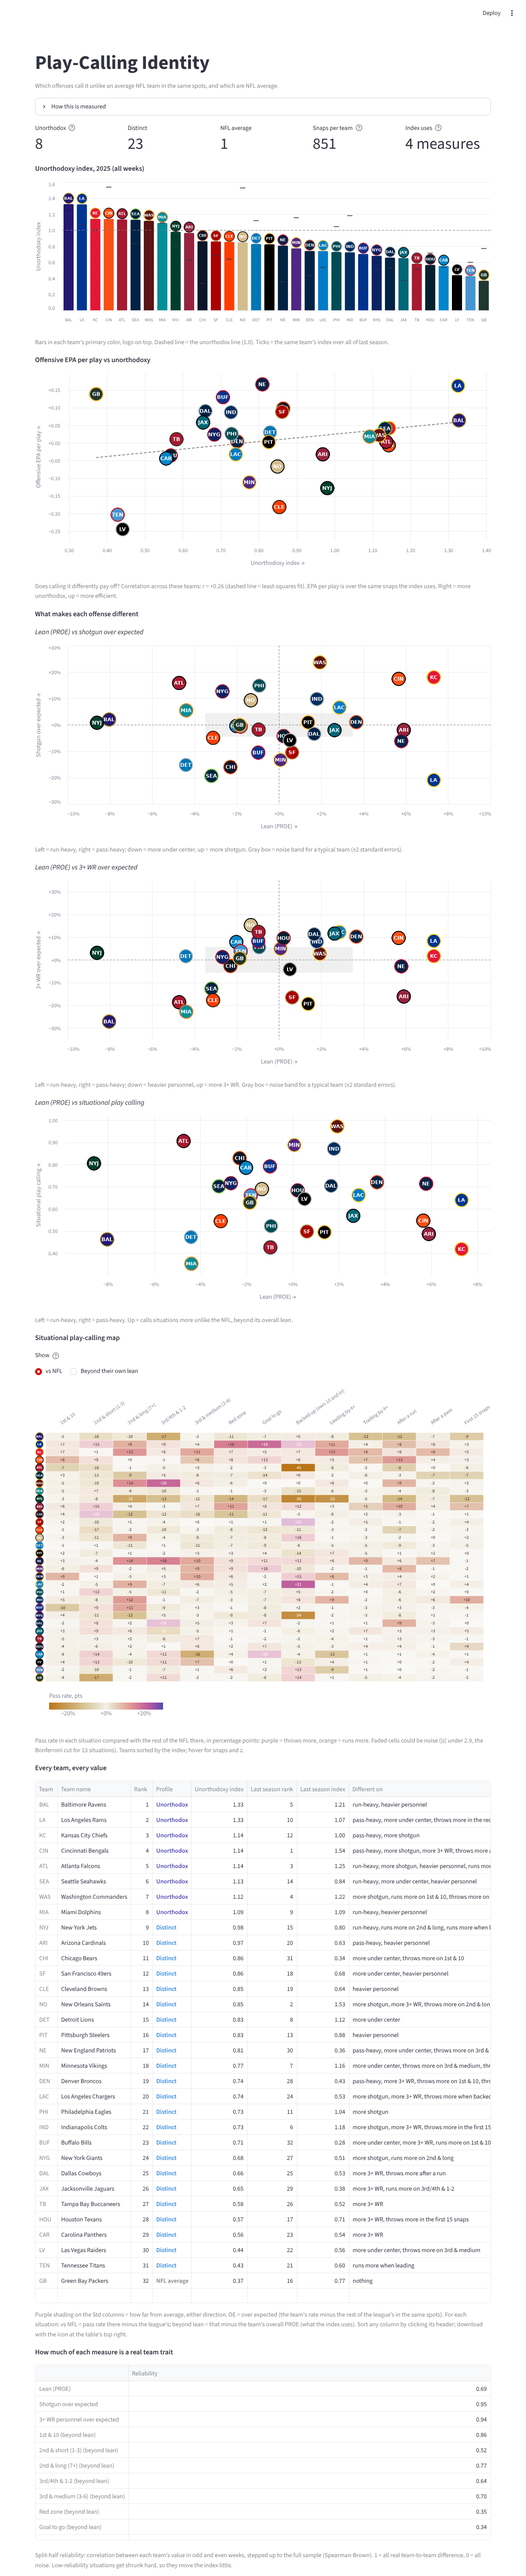
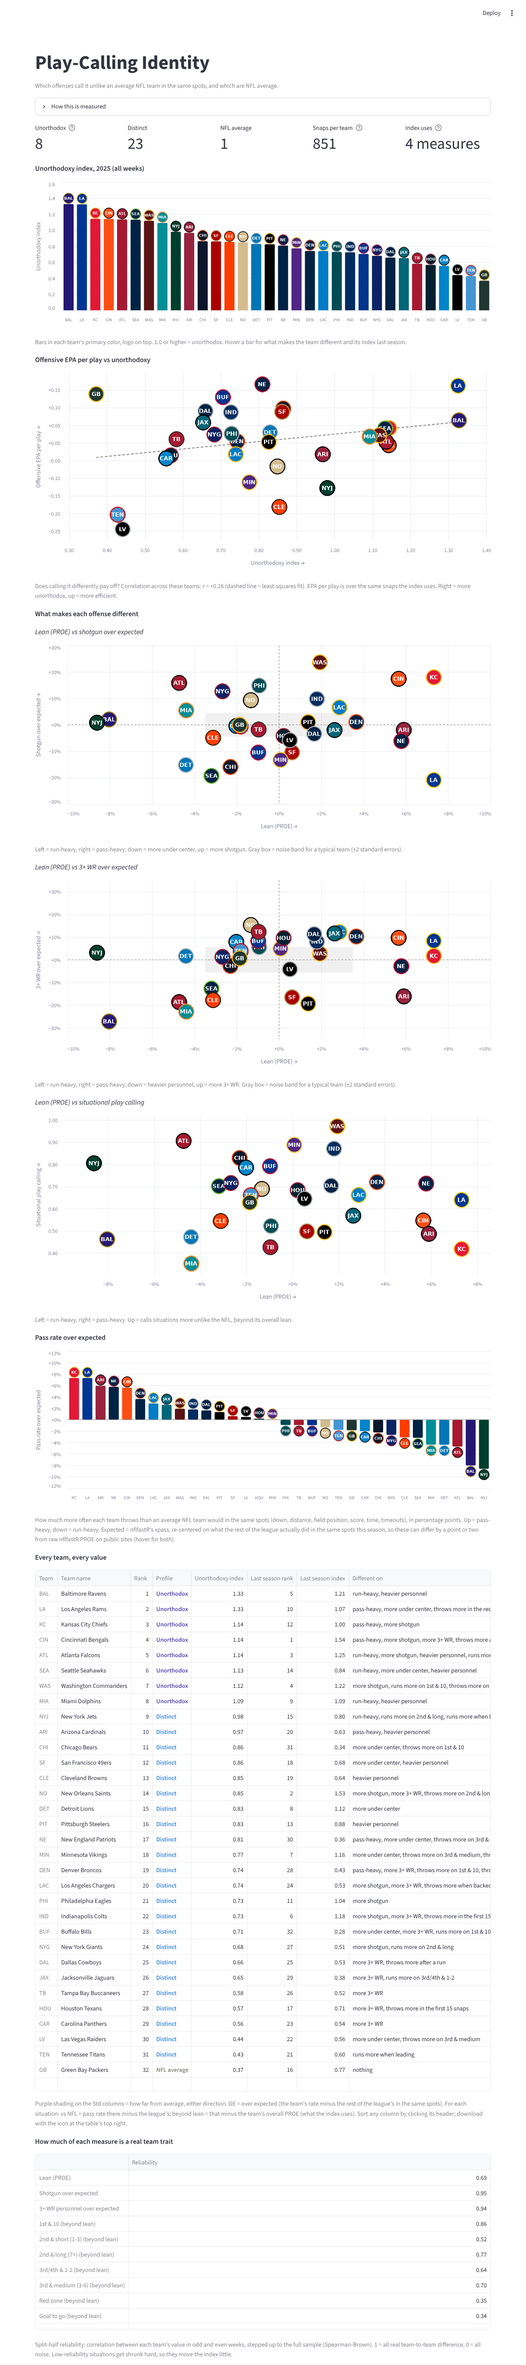
Identity page: simpler charts, PROE bars, no z columns, how to read the index
- Index chart: drop the unorthodox dashed line and last season's ticks (last
  season stays in the tooltip and the table).
- Scatters: logos only. A team whose logo couldn't be downloaded keeps a
  colored dot so it never disappears.
- Replace the situational play-calling map with pass rate over expected per
  team: bars in team colors, logo at the end of each bar (raw nflfastR PROE
  in the tooltip for comparison with public sites).
- Table: drop the z-score columns.
- Add 'How to read the index' to the page and README: the unit, no
  direction or grade, the practical floor (~0.3-0.4), and the 2021-25
  league distribution.

Claude-Session: https://claude.ai/code/session_01Aqe4Ce9chTpUW4ZyLj4MPT

diff --git a/page_identity.py b/page_identity.py
@@ -66,7 +66,7 @@ def team_frame(t: pd.DataFrame, info: pd.DataFrame, highlight: list[str]) -> pd.
 
 # ---- Charts --------------------------------------------------------------------------------------------------
 def index_chart(d: pd.DataFrame, prior: pd.DataFrame | None) -> alt.Chart:
-    """Bars in each team's primary color, the team's logo on top of its bar, last season's index as a tick."""
+    """Bars in each team's primary color with the team's logo on top. Last season's index is in the tooltip."""
     d = d.assign(**{"Last season": d["Team"].map(prior["Unorthodoxy index"]) if prior is not None else np.nan})
     order = list(d.sort_values("Unorthodoxy index", ascending=False)["Team"])
     top = float(d["Unorthodoxy index"].max() * 1.18)
@@ -79,20 +79,14 @@ def index_chart(d: pd.DataFrame, prior: pd.DataFrame | None) -> alt.Chart:
         y=y, color=alt.Color("color:N", scale=None), opacity=alt.Opacity("opacity:Q", scale=None))
     logos = base.mark_image(width=LOGO, height=LOGO, baseline="bottom").encode(
         y="Unorthodoxy index:Q", url="logo:N", opacity=alt.Opacity("opacity:Q", scale=None))
-    layers = [bars, logos,
-              alt.Chart(pd.DataFrame({"y": [idn.UNORTHODOX]})).mark_rule(strokeDash=[5, 4], color="#888780")
-              .encode(y="y:Q")]
-    if d["Last season"].notna().any():
-        layers.insert(1, base.mark_tick(color=cm.theme_ink(), thickness=2, size=12, opacity=0.8).encode(
-            y="Last season:Q"))
-    return alt.layer(*layers).properties(height=340)
+    return alt.layer(bars, logos).properties(height=340)
 
 
 def logo_scatter(d: pd.DataFrame, x: str, y: str, x_title: str, y_title: str, x_fmt: str, y_fmt: str,
                  tip_extra: list | None = None, box: tuple[float, float] | None = None, zero_lines: bool = True,
                  trend: bool = False, height: int = 460) -> alt.LayerChart:
-    """One team per point: a dot in the team's color under its logo. box = (half-width x, half-height y) of a
-    gray noise box around 0; trend = least-squares line."""
+    """One team per point, drawn as its logo (a dot in the team's color if the logo couldn't be downloaded).
+    box = (half-width x, half-height y) of a gray noise box around 0; trend = least-squares line."""
     d = d.dropna(subset=[x, y])
     pad_x = (d[x].max() - d[x].min()) * 0.08 or 0.01
     pad_y = (d[y].max() - d[y].min()) * 0.08 or 0.01
@@ -119,45 +113,34 @@ def logo_scatter(d: pd.DataFrame, x: str, y: str, x_title: str, y_title: str, x_
         layers.append(base.transform_regression(x, y).mark_line(color="#888780", strokeDash=[6, 4], strokeWidth=2)
                       .encode(tooltip=alt.value(None)))
     layers += [
-        base.mark_circle(size=900, stroke="white", strokeWidth=1).encode(
+        base.transform_filter("datum.logo == ''").mark_circle(size=500).encode(
             color=alt.Color("color:N", scale=None), opacity=alt.Opacity("opacity:Q", scale=None)),
-        base.mark_image(width=34, height=34).encode(url="logo:N", opacity=alt.Opacity("opacity:Q", scale=None)),
+        base.mark_image(width=38, height=38).encode(url="logo:N", opacity=alt.Opacity("opacity:Q", scale=None)),
     ]
     return alt.layer(*layers).properties(height=height)
 
 
-def heatmap(d: pd.DataFrame, situations: list[str], mode: str, z_cut: float) -> alt.Chart:
-    """Teams (rows, by index) × situations: how much more or less they throw there. Purple = more passing, orange
-    = more running. Cells that aren't detectable (|z| under the situational cut) are faded."""
-    rows = []
-    for _, r in d.iterrows():
-        for s in situations:
-            v, z = (r[f"{s}|vs_nfl"], r[f"{s}|z_nfl"]) if mode == "vs NFL" else (r[f"{s}|effect"], r[f"{s}|z"])
-            rows.append({"Team": r["Team"], "name": r["name"], "logo": r["logo"], "Situation": s, "value": v,
-                         "vs NFL": r[f"{s}|vs_nfl"], "beyond lean": r[f"{s}|effect"], "z": z,
-                         "snaps": r[f"{s}|n"], "sure": bool(pd.notna(z) and abs(z) >= z_cut)})
-    h = pd.DataFrame(rows)
-    order = list(d["Team"])
-    lim = 0.30
-    h["label"] = h["value"].map(lambda v: "" if pd.isna(v) else f"{int(round(v * 100)) + 0:+d}")
-    # The logos are the team labels (hover for the name).
-    y = alt.Y("Team:N", sort=order, title=None, axis=alt.Axis(labels=False, ticks=False, domain=False))
-    tip = [alt.Tooltip("name:N", title="Team"), "Situation", alt.Tooltip("vs NFL:Q", format="+.1%"),
-           alt.Tooltip("beyond lean:Q", format="+.1%", title="Beyond their lean"), alt.Tooltip("z:Q", format="+.1f"),
-           alt.Tooltip("snaps:Q", title="Snaps")]
-    base = alt.Chart(h).encode(x=alt.X("Situation:N", sort=situations, title=None,
-                                       axis=alt.Axis(orient="top", labelAngle=-35, labelLimit=180,
-                                                     labelOverlap=False)), y=y, tooltip=tip)
-    cells = base.mark_rect(stroke="white", strokeWidth=0.5).encode(
-        color=alt.Color("value:Q", title="Pass rate, pts", scale=alt.Scale(
-            domain=[-lim, 0, lim], range=[cm.RUN_C, "#F1EFE8", cm.PASS_C], clamp=True),
-            legend=alt.Legend(format="+.0%", orient="bottom", gradientLength=260)),
-        opacity=alt.condition("datum.sure", alt.value(1.0), alt.value(0.4)))
-    text = base.mark_text(fontSize=10).encode(text="label:N", color=alt.condition(
-        f"abs(datum.value) > {lim * 0.6}", alt.value("white"), alt.value("#2C2C2A")))
-    logos = alt.Chart(h.drop_duplicates("Team")).mark_image(width=20, height=20).encode(
-        y=y, url="logo:N", x=alt.value(-14), tooltip=[alt.Tooltip("name:N", title="Team")])
-    return alt.layer(cells, text, logos).properties(height=24 * len(order) + 10)
+def proe_chart(d: pd.DataFrame) -> alt.Chart:
+    """PROE per team: bars in the team's color, up = throws more than expected, down = runs more; the logo sits at
+    the end of each bar."""
+    d = d.assign(PROE=d["Pass rate"] - d["Expected pass rate"])
+    order = list(d.sort_values("PROE", ascending=False)["Team"])
+    lim = float(d["PROE"].abs().max() * 1.3) or 0.05
+    tip = [alt.Tooltip("name:N", title="Team"), alt.Tooltip("PROE:Q", format="+.1%"),
+           alt.Tooltip("Pass rate:Q", format=".1%"), alt.Tooltip("Expected pass rate:Q", format=".1%"),
+           alt.Tooltip("nflfastR PROE:Q", format="+.1%", title="nflfastR's raw PROE"), "Snaps"]
+    x = alt.X("Team:N", sort=order, title=None, axis=alt.Axis(labelAngle=0, labelFontSize=10, orient="bottom"))
+    y = alt.Y("PROE:Q", title="Pass rate over expected", scale=alt.Scale(domain=[-lim, lim]),
+              axis=alt.Axis(format="+.0%"))
+    base = alt.Chart(d).encode(x=x, tooltip=tip)
+    bars = base.mark_bar(cornerRadius=3).encode(
+        y=y, color=alt.Color("color:N", scale=None), opacity=alt.Opacity("opacity:Q", scale=None))
+    up = base.transform_filter("datum.PROE >= 0").mark_image(width=LOGO, height=LOGO, baseline="bottom").encode(
+        y="PROE:Q", url="logo:N", opacity=alt.Opacity("opacity:Q", scale=None))
+    down = base.transform_filter("datum.PROE < 0").mark_image(width=LOGO, height=LOGO, baseline="top").encode(
+        y="PROE:Q", url="logo:N", opacity=alt.Opacity("opacity:Q", scale=None))
+    zero = alt.Chart(pd.DataFrame({"v": [0]})).mark_rule(color="#888780").encode(y="v:Q")
+    return alt.layer(bars, zero, up, down).properties(height=360)
 
 
 # ---- Table ----------------------------------------------------------------------------------------------------
@@ -179,14 +162,14 @@ def display_table(t: pd.DataFrame, prior: pd.DataFrame | None, info: pd.DataFram
     out["Pass rate"], out["Expected pass rate"] = t["Pass rate"], t["Expected pass rate"]
     measures = t.attrs["measures"]
     if "lean" in measures:
-        out["PROE"], out["PROE z"], out["PROE std"] = t["lean_effect"], t["lean_z"], t["lean_std"]
+        out["PROE"], out["PROE std"] = t["lean_effect"], t["lean_std"]
     out["Shotgun rate"], out["Expected shotgun rate"] = t["Shotgun rate"], t["Expected shotgun rate"]
     if "shotgun" in measures:
-        out["Shotgun OE"], out["Shotgun z"], out["Shotgun std"] = t["shotgun_effect"], t["shotgun_z"], t["shotgun_std"]
+        out["Shotgun OE"], out["Shotgun std"] = t["shotgun_effect"], t["shotgun_std"]
     if "3+ WR rate" in t:
         out["3+ WR rate"], out["Expected 3+ WR rate"] = t["3+ WR rate"], t["Expected 3+ WR rate"]
         if "spread" in measures:
-            out["3+ WR OE"], out["3+ WR z"], out["3+ WR std"] = t["spread_effect"], t["spread_z"], t["spread_std"]
+            out["3+ WR OE"], out["3+ WR std"] = t["spread_effect"], t["spread_std"]
         for name in ("2+ TE", "2+ RB"):
             out[f"{name} rate"], out[f"{name} OE"] = t[f"{name} rate"], t[f"{name} over expected"]
         out["Personnel mix distance"], out["Top personnel"] = t["Personnel mix distance"], t["Top personnel"]
@@ -195,11 +178,9 @@ def display_table(t: pd.DataFrame, prior: pd.DataFrame | None, info: pd.DataFram
         for s in t.attrs["situations"]:
             out[f"{s}: vs NFL"] = t[f"{s}|vs_nfl"]
             out[f"{s}: beyond lean"] = t[f"{s}|effect"]
-            out[f"{s}: z"] = t[f"{s}|z"]
     out.index.name = "Team"
     fmt = {c: "{:.1%}" for c in out.columns if "rate" in c.lower() or c == "Personnel mix distance"}
     fmt.update({c: "{:+.1%}" for c in out.columns if c.endswith((" OE", ": vs NFL", ": beyond lean")) or c == "PROE"})
-    fmt.update({c: "{:+.1f}" for c in out.columns if c.endswith((" z", ": z"))})
     fmt.update({c: "{:+.2f}" for c in out.columns if c.endswith(" std") and c != "Situational std"})
     fmt.update({"Unorthodoxy index": "{:.2f}", "Last season index": "{:.2f}", "Situational std": "{:.2f}",
                 "Snaps": "{:,.0f}", "Games": "{:.0f}", "EPA/play": "{:+.3f}", "Success rate": "{:.1%}"})
@@ -261,7 +242,23 @@ For each measure: **z** = standard errors from average, clustered by game (a gam
 league by how noisy it is (empirical Bayes), in units of the real team-to-team spread; noisy situations shrink
 toward 0, so they barely move the index.
 
-**Unorthodoxy index** = root mean square of the Std values. **Profiles:** *Unorthodox* = index ≥
+**Unorthodoxy index** = root mean square of the Std values.
+
+**How to read the index**
+- **The unit is "a typical team-to-team gap."** 1.0 means that, across the measures, the offense sits about one
+  typical gap between NFL offenses away from what an average team would do in the same spots. 2025 Baltimore (1.33):
+  lean −1.51 (run-heavy), shotgun +0.17, personnel −2.13 (heavy), situational 0.46; squared, averaged, and square-rooted,
+  that's 1.33.
+- **It has no direction and no grade.** Pass-heavy and run-heavy both count as unusual, and unusual isn't good or
+  bad. Use the bars, scatters, and table to see *which way* a team is different, and the EPA chart for whether it works.
+- **It never reaches 0 in practice.** The squares can't cancel and some noise survives the shrinkage, so even the most
+  average offenses land around 0.3-0.4. Read it against the league: across 2021-25 the median team is about 0.77, the
+  top quarter 1.07+, the top 10% 1.3+, and the most extreme 1.84 (2024 New Orleans).
+- **It's relative to that season.** Each measure is scaled by that season's real spread between teams, so compare
+  ranks across seasons rather than raw values, and expect the season in progress (fewer games, no personnel yet) to
+  run a little differently.
+
+**Profiles:** *Unorthodox* = index ≥
 {idn.UNORTHODOX:.1f}; *NFL average* = not detectably *and* materially (|Std| ≥ {idn.MATERIAL}) different on anything;
 *Distinct* = in between. Early in a season many teams read as NFL average simply because there isn't enough data yet.
 """
@@ -350,8 +347,8 @@ c[4].metric("Index uses", f"{len(measures)} measures", help=", ".join(LABELS[m] 
 
 st.markdown(f"**Unorthodoxy index, {season} ({week_txt})**")
 st.altair_chart(index_chart(d, prior), width="stretch")
-st.caption(f"Bars in each team's primary color, logo on top. Dashed line = the unorthodox line ({idn.UNORTHODOX:.1f})."
-           + (" Ticks = the same team's index over all of last season." if prior is not None else ""))
+st.caption(f"Bars in each team's primary color, logo on top. {idn.UNORTHODOX:.1f} or higher = unorthodox. Hover a bar "
+           f"for what makes the team different" + (" and its index last season." if prior is not None else "."))
 
 st.markdown("**Offensive EPA per play vs unorthodoxy**")
 r = d["Unorthodoxy index"].corr(d["EPA/play"])
@@ -386,16 +383,12 @@ if pairs:
         st.altair_chart(chart, width="stretch")
         st.caption(note)
 
-if idn.SITUATIONAL in measures:
-    st.markdown("**Situational play-calling map**")
-    mode = st.radio("Show", ["vs NFL", "Beyond their own lean"], horizontal=True, key="id_heat",
-                    help="vs NFL = how much more they throw there than the league does. Beyond their own lean = the "
-                         "same, minus their overall PROE: what the situational measure uses.")
-    z_cut = idn.z_situation(len(t.attrs["situations"]))
-    st.altair_chart(heatmap(d, t.attrs["situations"], mode, z_cut), width="stretch")
-    st.caption(f"Pass rate in each situation compared with the rest of the NFL there, in percentage points: purple = "
-               f"throws more, orange = runs more. Faded cells could be noise (|z| under {z_cut:.1f}, the Bonferroni cut "
-               f"for {len(t.attrs['situations'])} situations). Teams sorted by the index; hover for snaps and z.")
+st.markdown("**Pass rate over expected**")
+st.altair_chart(proe_chart(d), width="stretch")
+st.caption("How much more often each team throws than an average NFL team would in the same spots (down, distance, "
+           "field position, score, time, timeouts), in percentage points. Up = pass-heavy, down = run-heavy. Expected "
+           "= nflfastR's xpass, re-centered on what the rest of the league actually did in the same spots this season, "
+           "so these can differ by a point or two from raw nflfastR PROE on public sites (hover for both).")
 
 st.markdown("**Every team, every value**")
 table, fmt = display_table(t.loc[d["Team"]], prior, info)

diff --git a/identity.py b/identity.py
@@ -209,7 +209,7 @@ def season_table(plays: pd.DataFrame, season: int, settings: Settings = Settings
         lean_all = g["pass_resid"].mean()
         r = {"Snaps": len(g), "Games": g["game_id"].nunique(), "EPA/play": g["epa"].mean(),
              "Success rate": g["success"].mean(), "Pass rate": g["PASS"].mean(),
-             "Expected pass rate": g["exp_pass"].mean()}
+             "Expected pass rate": g["exp_pass"].mean(), "nflfastR PROE": g["pass_oe"].mean() / 100}
         for k in keys:
             label, val, exp = MEASURES[k]
             r[f"{k}_effect"], r[f"{k}_z"], r[f"{k}_se"], _ = _measure(g, val, exp)

diff --git a/README.md b/README.md
@@ -48,10 +48,14 @@ z to be flagged). The **unorthodoxy index** is the root mean square of those: 0 
 1 = one typical team-to-team spread away on each measure. *Unorthodox* = index ≥ 1.0; *NFL average* = not detectably
 and materially different on any measure; *Distinct* = in between.
 
-**On the page:** the index as bars in each team's primary color with its logo on top (and last season's index as a
-tick); offensive EPA per play vs the index; lean vs shotgun, lean vs personnel, and lean vs situational play calling;
-a situational play-calling map (team × situation, vs the NFL or beyond the team's own lean); a table of every value;
-and split-half reliabilities. Every chart uses team colors and logos. Logos are downloaded once from ESPN's CDN,
+**Reading the index:** the unit is a typical team-to-team gap, so 1.0 = about one typical gap from average across the
+measures. It has no direction (pass-heavy and run-heavy both count) and no grade (unusual isn't good or bad). Even the
+most average offenses land around 0.3-0.4, since squares can't cancel and some noise survives the shrinkage; across
+2021-25 the median team is about 0.77, the top quarter 1.07+, and the top 10% 1.3+.
+
+**On the page:** the index as bars in each team's primary color with its logo on top; offensive EPA per play vs the
+index; lean vs shotgun, lean vs personnel, and lean vs situational play calling (logos only); pass rate over expected
+per team as bars in team colors with logos; a table of every value; and split-half reliabilities. Every chart uses team colors and logos. Logos are downloaded once from ESPN's CDN,
 shrunk, cached in `data/logos/`, and embedded in the charts (a hotlinked image can fail to draw on Vega's canvas).
 
 **Sidebar filters:** season (defaults to the latest), week range, score window, last 2 minutes of a half, which
